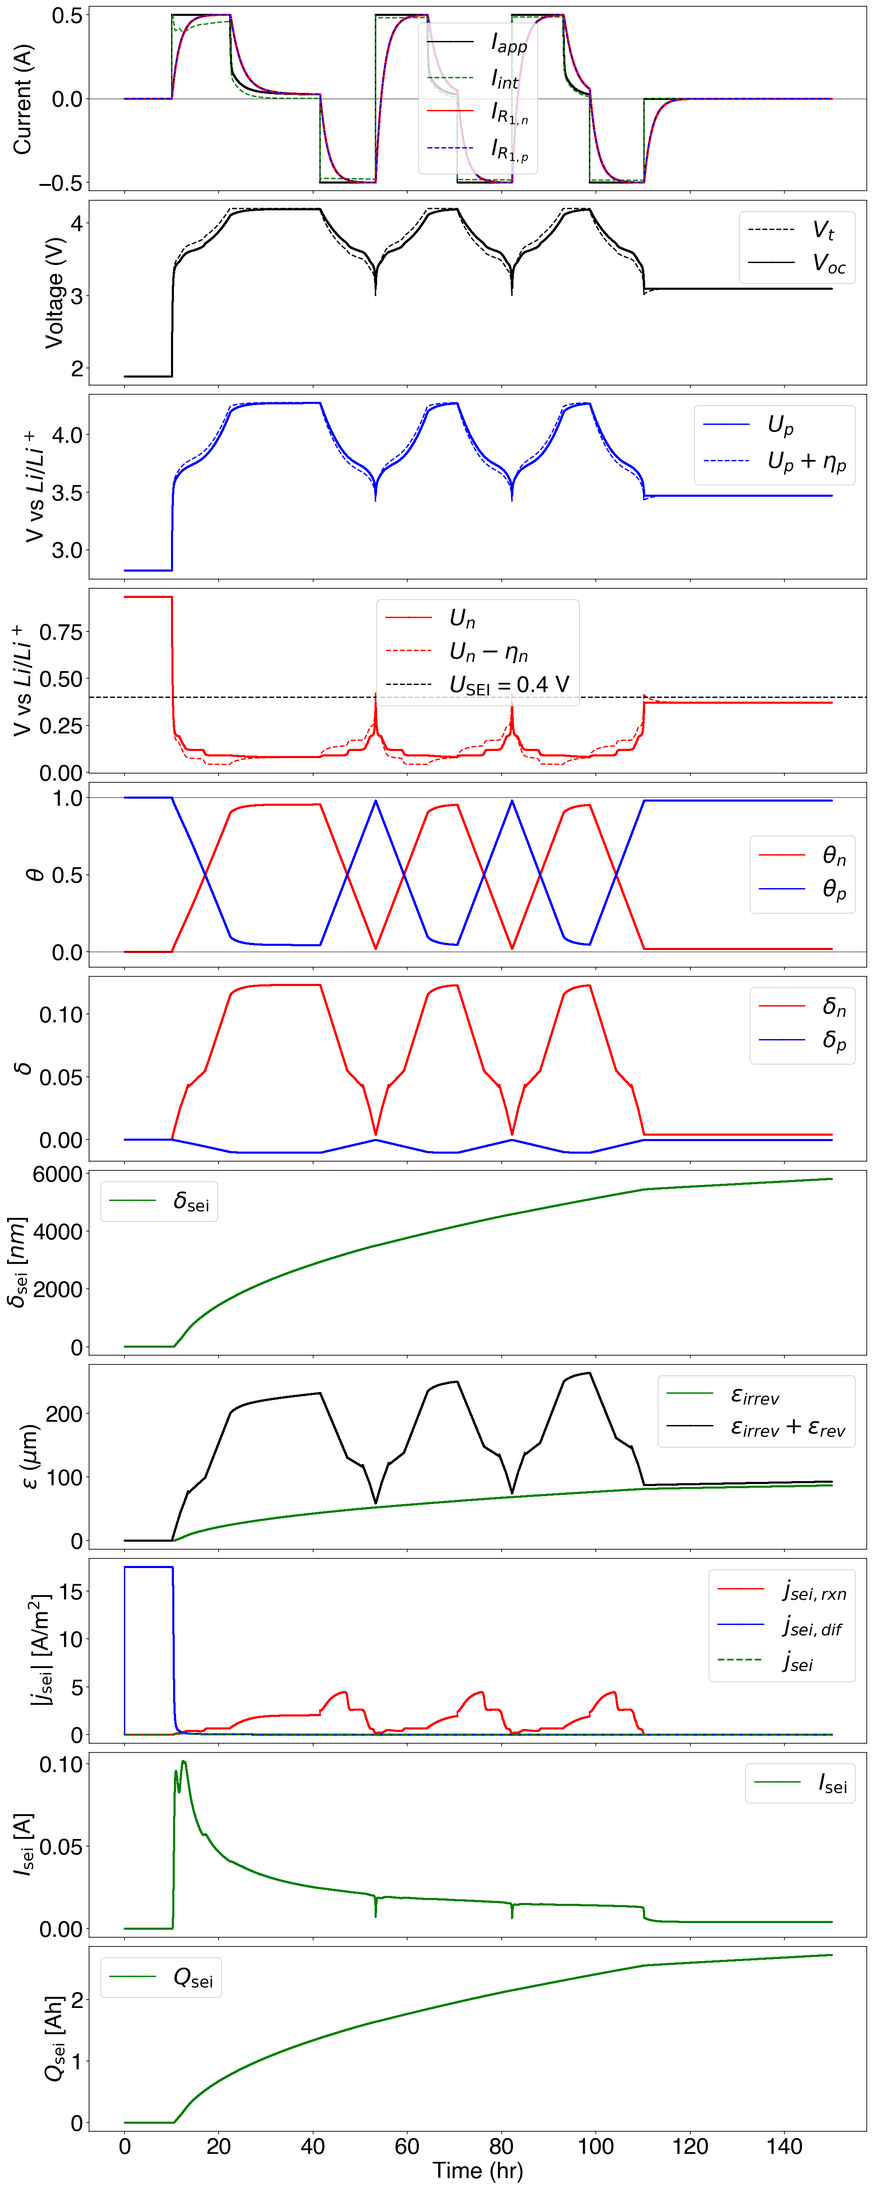
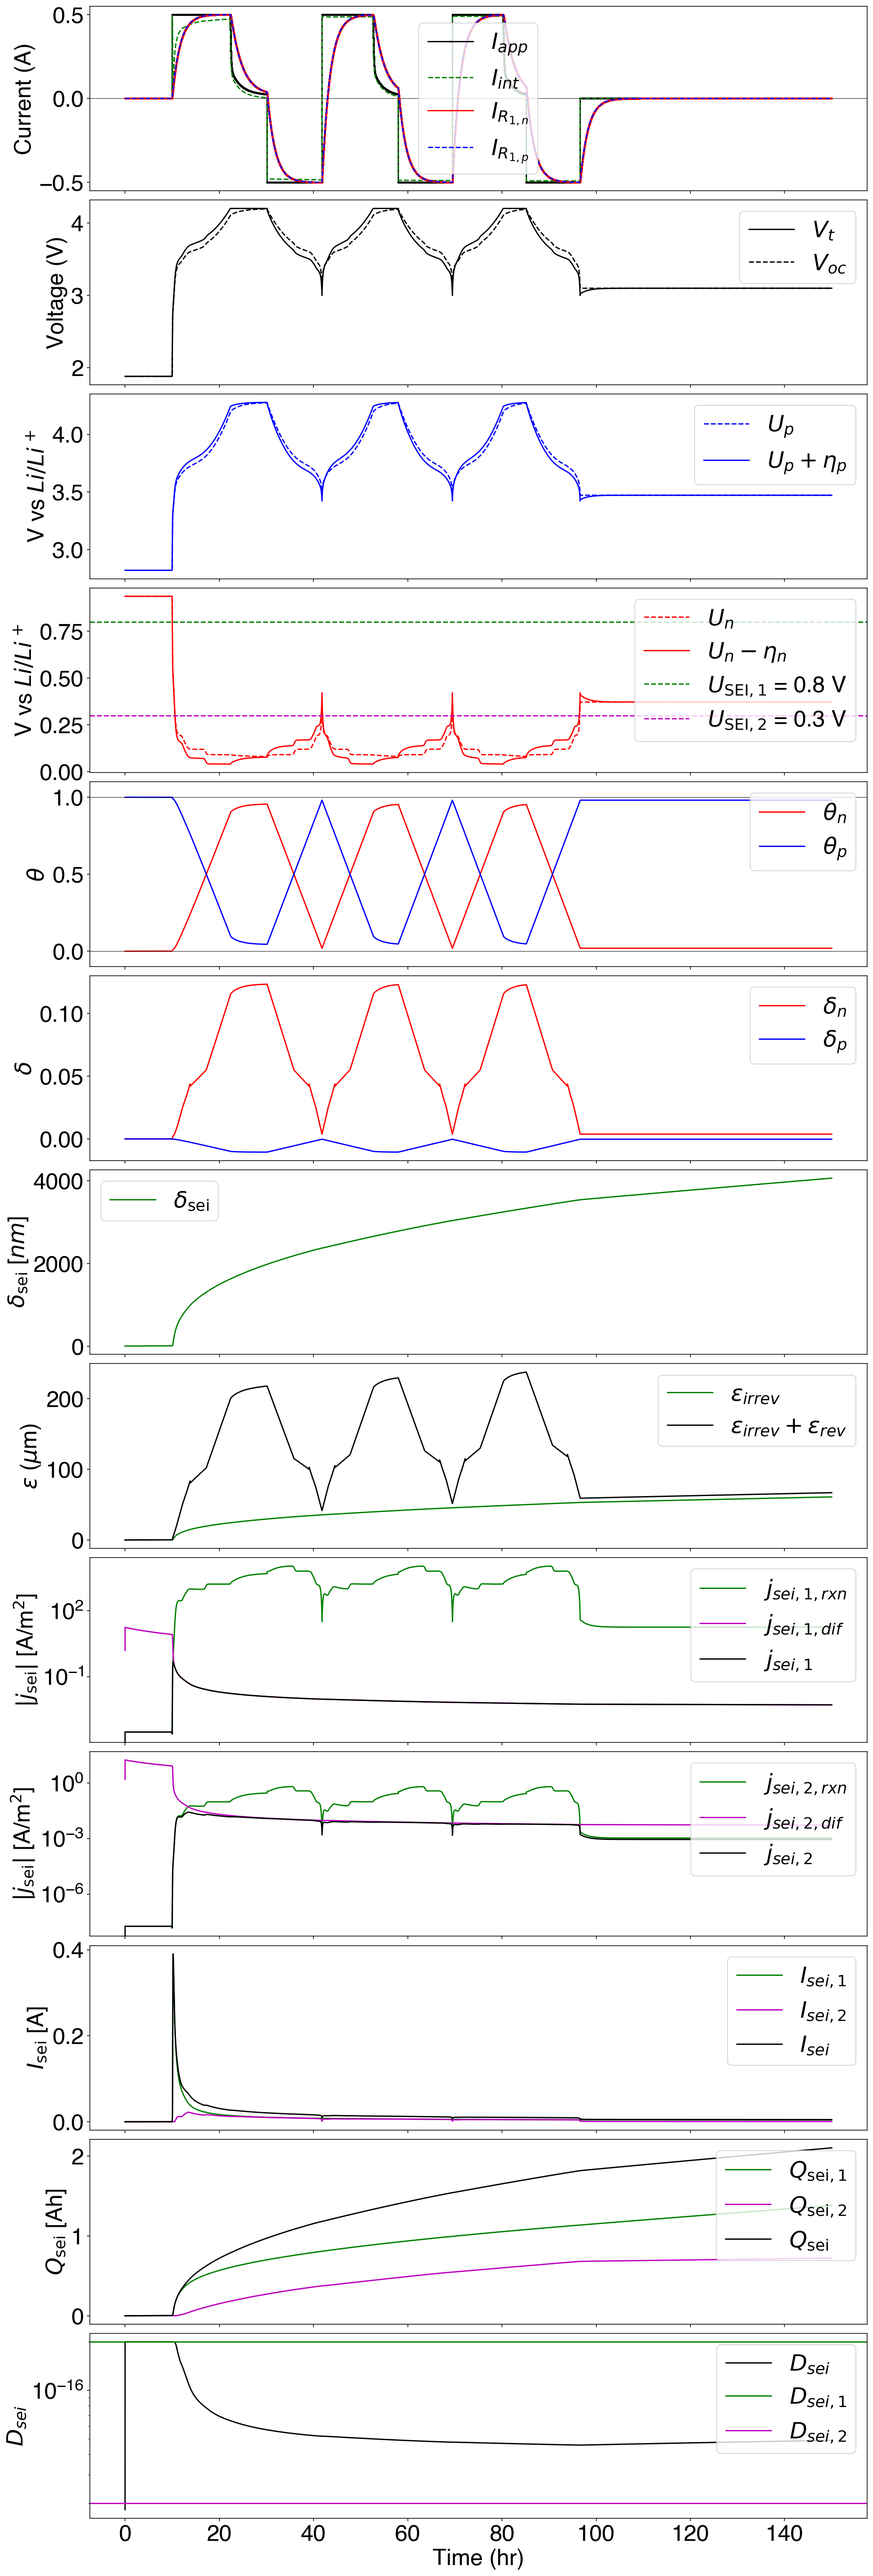
Finished implementing homogenized MSR model

diff --git a/src/cellsim.py b/src/cellsim.py
@@ -82,12 +82,29 @@ class Simulation:
         self.i_r1n   = mu.initialize(self.t, 0)
 
         # SEI states
-        self.eta_sei = mu.initialize(self.t, 0)
-        self.j_sei_rxn = mu.initialize(self.t, 0)
-        self.j_sei_dif = mu.initialize(self.t, 0)
+
+        # Total quantities
         self.j_sei   = mu.initialize(self.t, 0)
         self.i_sei   = mu.initialize(self.t, 0)
         self.q_sei   = mu.initialize(self.t, 0)
+
+        # Homogenized quantities
+        self.D_sei   = mu.initialize(self.t, 1/(1/cell.D_SEI1 + 1/cell.D_SEI2))
+        self.V_sei   = mu.initialize(self.t, (cell.V_SEI1 + cell.V_SEI2)/2)
+
+        # Individual components
+        self.j_sei1     = mu.initialize(self.t, 0)
+        self.j_sei2     = mu.initialize(self.t, 0)
+        self.i_sei1     = mu.initialize(self.t, 0)
+        self.i_sei2     = mu.initialize(self.t, 0)
+        self.q_sei1     = mu.initialize(self.t, 0)
+        self.q_sei2     = mu.initialize(self.t, 0)
+        self.j_sei_rxn1 = mu.initialize(self.t, np.NaN)
+        self.j_sei_rxn2 = mu.initialize(self.t, np.NaN)
+        self.j_sei_dif1 = mu.initialize(self.t, np.NaN)
+        self.j_sei_dif2 = mu.initialize(self.t, np.NaN)
+        self.eta_sei1   = mu.initialize(self.t, 0)
+        self.eta_sei2   = mu.initialize(self.t, 0)
 
         # Expansion states
         self.delta_sei = mu.initialize(self.t, cell.delta_SEI_0)
@@ -158,18 +175,33 @@ class Simulation:
 
         # SEI growth update
         # eta_int = self.i_app[k] * p.R0n
-        self.eta_sei[k+1] = self.eta_n[k+1] + self.ocv_n[k+1] - p.U_SEI1
+        self.eta_sei1[k+1] = self.eta_n[k+1] + self.ocv_n[k+1] - p.U_SEI1
+        self.eta_sei2[k+1] = self.eta_n[k+1] + self.ocv_n[k+1] - p.U_SEI2
 
         # Mixed reaction and diffusion limited SEI current density
-        self.j_sei_rxn[k+1] = F * p.c_SEI1_0 * p.k_SEI1 * \
-                                np.exp( -p.alpha_SEI * F * self.eta_sei[k+1] / \
+        self.j_sei_rxn1[k+1] = F * p.c_SEI1_0 * p.k_SEI1 * \
+                                np.exp( -p.alpha_SEI * F * self.eta_sei1[k+1] / \
                                        (R * T) )
-        self.j_sei_dif[k+1] = p.D_SEI1 * p.c_SEI1_0 * F / \
+
+        self.j_sei_dif1[k+1] = self.D_sei[k] * p.c_SEI1_0 * F / \
                                 (self.delta_sei[k]) # should this be k or k+1?
-        self.j_sei[k+1] = - 1 / (1/self.j_sei_rxn[k+1] + 1/self.j_sei_dif[k+1])
+
+        self.j_sei_rxn2[k+1] = F * p.c_SEI2_0 * p.k_SEI2 * \
+                                np.exp( -p.alpha_SEI * F * self.eta_sei2[k+1] / \
+                                       (R * T) )
+
+        self.j_sei_dif2[k+1] = self.D_sei[k] * p.c_SEI2_0 * F / \
+                                (self.delta_sei[k]) # should this be k or k+1?
+
+        self.j_sei1[k+1] = - 1 / (1/self.j_sei_rxn1[k+1] + 1/self.j_sei_dif1[k+1])
+        self.j_sei2[k+1] = - 1 / (1/self.j_sei_rxn2[k+1] + 1/self.j_sei_dif2[k+1])
+
+        self.j_sei[k+1] = self.j_sei1[k+1] + self.j_sei2[k+1]
 
         ## Current density to current conversion
-        self.i_sei[k+1] = - self.j_sei[k+1] * (p.a_sn * p.A_n * p.L_n)
+        self.i_sei[k+1]  = - self.j_sei[k+1]  * (p.a_sn * p.A_n * p.L_n)
+        self.i_sei1[k+1] = - self.j_sei1[k+1] * (p.a_sn * p.A_n * p.L_n)
+        self.i_sei2[k+1] = - self.j_sei2[k+1] * (p.a_sn * p.A_n * p.L_n)
 
         # Update the intercalation current for the next time step
         # Stoichiometry update; only include intercalation current
@@ -177,11 +209,19 @@ class Simulation:
         self.i_int[k+1] = self.i_app[k] + sign*self.i_sei[k]
 
         # Integrate SEI current to get SEI capacity
-        self.q_sei[k+1] = self.q_sei[k] + self.i_sei[k+1] * self.dt / 3600
+        self.q_sei1[k+1] = self.q_sei1[k] + self.i_sei1[k+1] * self.dt / 3600
+        self.q_sei2[k+1] = self.q_sei2[k] + self.i_sei2[k+1] * self.dt / 3600
+        self.q_sei[k+1]  = self.q_sei[k]  + self.i_sei[k+1] * self.dt / 3600
+
+        # Update homogenized variables
+        mu1 = self.q_sei1[k+1] / (self.q_sei[k+1])
+        mu2 = self.q_sei2[k+1] / (self.q_sei[k+1])
+        self.D_sei[k+1] = 1 / (mu1/p.D_SEI1 + mu2/p.D_SEI2)
+        self.V_sei[k+1] = mu1 * p.V_SEI1 + mu2 * p.V_SEI2
 
         # Update SEI thickness
         self.delta_sei[k+1] = self.delta_sei[k] + \
-                              self.dt * (p.V_SEI1 * \
+                              self.dt * (self.V_sei[k+1] * \
                                         np.abs(self.j_sei[k+1]) ) / (2 * F)
 
         # Expansion update
@@ -197,7 +237,7 @@ class Simulation:
         Make a standard plot of the outputs
         """
 
-        num_subplots = 11
+        num_subplots = 13
 
         gridspec = dict(hspace=0.05, height_ratios=np.ones(num_subplots))
 
@@ -208,79 +248,101 @@ class Simulation:
 
         [ax.grid(False) for ax in axs]
 
+        xx = self.t/3600
+
         # Currents
         axs[0].axhline(y=0, linestyle='-', label='', color='k', linewidth=0.5)
-        axs[0].plot(self.t/3600, self.i_app, color='k', marker='o', ms=1, label='$I_{app}$')
-        axs[0].plot(self.t/3600, self.i_int, color='g', ls='--', label='$I_{int}$')
-        axs[0].plot(self.t/3600, self.i_r1n, color='r', marker='o', ms=1, label='$I_{R_{1,n}}$')
-        axs[0].plot(self.t/3600, self.i_r1p, color='b', ls='--', label='$I_{R_{1,p}}$')
+        axs[0].plot(xx, self.i_app, color='k', marker='o', ms=1, label='$I_{app}$')
+        axs[0].plot(xx, self.i_int, color='g', ls='--', label='$I_{int}$')
+        axs[0].plot(xx, self.i_r1n, color='r', marker='o', ms=1, label='$I_{R_{1,n}}$')
+        axs[0].plot(xx, self.i_r1p, color='b', ls='--', label='$I_{R_{1,p}}$')
         axs[0].set_ylabel('Current (A)')
         axs[0].legend()
 
         # Voltages and Potentials
-        axs[1].plot(self.t/3600, self.vt, ls='--', c='k')
-        axs[1].plot(self.t/3600, self.ocv, marker='o', ms=1, color='k')
-        axs[1].legend(['$V_t$', '$V_{oc}$'])
+        axs[1].plot(xx, self.vt, ls='-', c='k')
+        axs[1].plot(xx, self.ocv, ls='--', c='k')
+        axs[1].legend(['$V_t$', '$V_{oc}$'], loc='upper right')
         axs[1].set_ylabel('Voltage (V)')
 
         # Positive potential
-        axs[2].plot(self.t/3600, self.ocv_p, marker='o', ms=1, color='b', label='$U_p$')
-        axs[2].plot(self.t/3600, self.ocv_p + self.eta_p, ls='--', color='b', label='$U_p + \eta_p$')
-        axs[2].legend()
+        axs[2].plot(xx, self.ocv_p, ls='--', c='b', label='$U_p$')
+        axs[2].plot(xx, self.ocv_p + self.eta_p, ls='-', c='b', label='$U_p + \eta_p$')
+        axs[2].legend(loc='upper right')
         axs[2].set_ylabel('V vs $Li/Li^+$')
 
         # Negative potential
-        axs[3].plot(self.t/3600, self.ocv_n, marker='o', ms=1, color='r', label='$U_n$')
-        axs[3].plot(self.t/3600, self.ocv_n - self.eta_n, ls='--', color='r', label='$U_n - \eta_n$')
-        axs[3].axhline(y=self.cell.U_SEI1, linestyle='--', color='k', label=rf'$U_{{\mathrm{{SEI}}}}$ = {self.cell.U_SEI1} V')
-        axs[3].legend()
+        axs[3].plot(xx, self.ocv_n, ls='--', c='r', label='$U_n$')
+        axs[3].plot(xx, self.ocv_n - self.eta_n, ls='-', c='r', label='$U_n - \eta_n$')
+        axs[3].axhline(y=self.cell.U_SEI1, linestyle='--', c='g', label=rf'$U_{{\mathrm{{SEI,1}}}}$ = {self.cell.U_SEI1} V')
+        axs[3].axhline(y=self.cell.U_SEI2, linestyle='--', c='m', label=rf'$U_{{\mathrm{{SEI,2}}}}$ = {self.cell.U_SEI2} V')
+        axs[3].legend(loc='upper right')
         axs[3].set_ylabel('V vs $Li/Li^+$')
 
         # Electrode stoichiometries
-        axs[4].plot(self.t/3600, self.theta_n, color='r', marker='o', ms=1)
-        axs[4].plot(self.t/3600, self.theta_p, color='b', marker='o', ms=1)
-        axs[4].axhline(y=1, linestyle='-', label='', color='k', linewidth=0.5)
-        axs[4].axhline(y=0, linestyle='-', label='', color='k', linewidth=0.5)
-        axs[4].legend([r'$\theta_n$', r'$\theta_p$'])
+        axs[4].plot(xx, self.theta_n, c='r')
+        axs[4].plot(xx, self.theta_p, c='b')
+        axs[4].axhline(y=1, linestyle='-', label='', c='k', linewidth=0.5)
+        axs[4].axhline(y=0, linestyle='-', label='', c='k', linewidth=0.5)
+        axs[4].legend([r'$\theta_n$', r'$\theta_p$'], loc='upper right')
         axs[4].set_ylabel(r'$\theta$')
         axs[4].set_ylim((-0.1, 1.1))
 
         # Electrode expansion factors
         axs[5].set_ylabel(r'$\delta$')
-        axs[5].plot(self.t/3600, self.delta_n, color='r', marker='o', ms=1)
-        axs[5].plot(self.t/3600, self.delta_p, color='b', marker='o', ms=1)
+        axs[5].plot(xx, self.delta_n, c='r')
+        axs[5].plot(xx, self.delta_p, c='b')
         axs[5].legend([r'$\delta_n$', r'$\delta_p$'])
 
         # SEI expansion factor
-        axs[6].plot(self.t/3600, self.delta_sei * 1e9, color='g', marker='o', ms=1)
+        axs[6].plot(xx, self.delta_sei * 1e9, c='g')
         axs[6].legend([r'$\delta_{\mathrm{sei}}$'])
         axs[6].set_ylabel(r'$\delta_{\mathrm{sei}}$ [$nm$]')
 
         # Total cell expansion
         axs[7].set_ylabel(r'$\epsilon$ ($\mu$m)')
-        axs[7].plot(self.t/3600, self.expansion_irrev*1e6, color='g', marker='o', ms=1, label='$\epsilon_{irrev}$')
-        axs[7].plot(self.t/3600, (self.expansion_rev + self.expansion_irrev)*1e6,
-                    color='k', marker='o', ms=1, label='$\epsilon_{irrev} + \epsilon_{rev}$')
+        axs[7].plot(xx, self.expansion_irrev*1e6, c='g', label='$\epsilon_{irrev}$')
+        axs[7].plot(xx, (self.expansion_rev + self.expansion_irrev)*1e6,
+                    c='k', label='$\epsilon_{irrev} + \epsilon_{rev}$')
         axs[7].legend()
 
         # SEI reaction current densities
         axs[8].set_yscale('log')
-        axs[8].plot(self.t/3600, self.j_sei_rxn, color='r', marker='o', ms=1, label='$j_{sei,rxn}$')
-        axs[8].plot(self.t/3600, self.j_sei_dif, color='b', marker='o', ms=1, label='$j_{sei,dif}$')
-        axs[8].plot(self.t/3600, np.abs(self.j_sei), color='g', ls='--', lw=2, label='$j_{sei}$')
-        axs[8].legend()
+        axs[8].plot(xx, self.j_sei_rxn1, c='g', label='$j_{sei,1,rxn}$')
+        axs[8].plot(xx, self.j_sei_dif1, c='m', label='$j_{sei,1,dif}$')
+        axs[8].plot(xx, np.abs(self.j_sei1), c='k', label='$j_{sei,1}$')
+        axs[8].legend(loc='upper right')
         axs[8].set_ylabel(r'$|j_{\mathrm{sei}}|$ [A/m$^2$]')
 
+        # SEI reaction current densities
+        axs[9].set_yscale('log')
+        axs[9].plot(xx, self.j_sei_rxn2, c='g', label='$j_{sei,2,rxn}$')
+        axs[9].plot(xx, self.j_sei_dif2, c='m', label='$j_{sei,2,dif}$')
+        axs[9].plot(xx, np.abs(self.j_sei2), c='k', label='$j_{sei,2}$')
+        axs[9].legend(loc='upper right')
+        axs[9].set_ylabel(r'$|j_{\mathrm{sei}}|$ [A/m$^2$]')
+
         # Total SEI reaction current
-        axs[9].plot(self.t/3600, self.i_sei, color='g', marker='o', ms=1)
-        axs[9].legend([r'$I_{\mathrm{sei}}$'])
-        axs[9].set_ylabel(r'$I_{\mathrm{sei}}$ [A]')
+        axs[10].plot(xx, self.i_sei1, c='g', label='$I_{sei,1}$')
+        axs[10].plot(xx, self.i_sei2, c='m', label='$I_{sei,2}$')
+        axs[10].plot(xx, self.i_sei, c='k', label='$I_{sei}$')
+        axs[10].legend(loc='upper right')
+        axs[10].set_ylabel(r'$I_{\mathrm{sei}}$ [A]')
 
         # Total SEI capacity
-        axs[10].plot(self.t/3600, self.q_sei, color='g', marker='o', ms=1)
-        axs[10].legend([r'$Q_{\mathrm{sei}}$'])
-        axs[10].set_ylabel(r'$Q_{\mathrm{sei}}$ [Ah]')
-        axs[10].set_xlabel('Time (hr)')
+        axs[11].plot(xx, self.q_sei1, c='g', label='$Q_{\mathrm{sei,1}}$')
+        axs[11].plot(xx, self.q_sei2, c='m', label='$Q_{\mathrm{sei,2}}$')
+        axs[11].plot(xx, self.q_sei, c='k', label='$Q_{\mathrm{sei}}$')
+        axs[11].legend(loc='upper right')
+        axs[11].set_ylabel(r'$Q_{\mathrm{sei}}$ [Ah]')
+
+        axs[12].set_yscale('log')
+        axs[12].plot(xx, self.D_sei, c='k', label='$D_{sei}$')
+        axs[12].axhline(y=self.cell.D_SEI1, label='$D_{sei,1}$', color='g')
+        axs[12].axhline(y=self.cell.D_SEI2, label='$D_{sei,2}$', color='m')
+        axs[12].legend(loc='upper right')
+        axs[12].set_ylabel(r'$D_{sei}$')
+        axs[12].set_xlabel('Time (hr)')
 
         if to_save:
             plt.savefig('outputs/figures/fig_formation_simulation.png',
